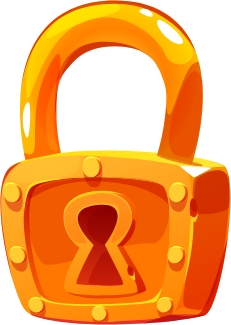
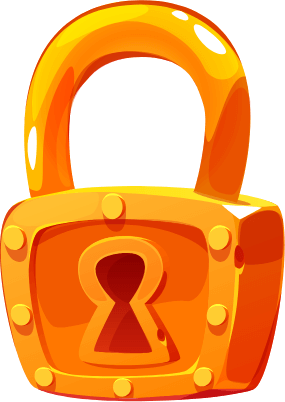
sdf

diff --git a/src/components/card/stage-game-card/StageGameSeasonCard.js b/src/components/card/stage-game-card/StageGameSeasonCard.js
@@ -17,6 +17,8 @@ import { IS_TABLET_CONDITION } from '../../../utils/constants/constants';
 import { tabScreenSoundInOnClick } from '../../../utils/sound/SoundFunctions';
 import useAppTheme from '../../../hooks/theme/useAppTheme';
 import SimpleBorderText from '../../text-components/SimpleBorderText';
+import LocalImageComponent from '../../image-components/LocalImageComponent';
+import WoodProgressBar from '../../WoodProgressBar';
 
 const { width, height } = Dimensions.get('window');
 
@@ -29,16 +31,19 @@ const STAGE_GAME_CARD_WIDTH = IS_TABLET_CONDITION
 
 function StageGameSeasonCard({
   lock,
+  ended,
   currentScroll,
   title,
   description,
   image,
+  progress,
   seasonNumber,
   stageNumberFrom,
   stageNumberTo,
   numberStage,
   isActive,
   onPress,
+  languageName
 }) {
   const colors = useAppTheme();
 
@@ -66,14 +71,17 @@ function StageGameSeasonCard({
           <View style={{ flex: 1, position: 'relative' }}>
             <CardContent
               lock={lock}
+              ended={ended}
               title={title}
               image={image}
+              progress={progress}
               seasonNumber={seasonNumber}
               stageNumberFrom={stageNumberFrom}
               stageNumberTo={stageNumberTo}
               numberStage={numberStage}
               colors={colors}
               onClick={onClick}
+              languageName={languageName}
             />
           </View>
 
@@ -82,11 +90,9 @@ function StageGameSeasonCard({
               width: '100%',
               height: '100%',
               alignItems: 'center',
-              justifyContent: 'center',
-              backgroundColor: '#83703d70',
+              justifyContent: 'flex-start',
+              paddingTop:"15%",
               position: 'absolute',
-              top: 0,
-              left: 0,
             }}>
               <LockedSeasonAnimation animate={currentScroll} lockFontSize={STAGE_GAME_CARD_WIDTH / 2} />
             </View>
@@ -112,8 +118,10 @@ function StageGameSeasonCard({
 }
 
 const CardContent = memo(({
-  lock, title, image, seasonNumber, stageNumberFrom, stageNumberTo, numberStage, colors, onClick
+  lock, ended, title, image, progress, seasonNumber, stageNumberFrom, stageNumberTo, numberStage, colors, onClick, languageName
 }) => {
+  const seasonNumberLength = seasonNumber?.toString().length
+  const cupNumberFontSize = seasonNumberLength == 1?14:seasonNumberLength == 2?11:8
   return (
     <View style={{
       width: STAGE_GAME_CARD_WIDTH,
@@ -129,39 +137,72 @@ const CardContent = memo(({
           resizeMode={'cover'}
           style={{borderTopLeftRadius:STAGE_GAME_CARD_WIDTH*0.16, borderTopRightRadius:STAGE_GAME_CARD_WIDTH*0.16, borderBottomLeftRadius:25, borderBottomRightRadius:25}}
         />
-        <View style={{ width: '100%', alignItems: 'center', paddingTop: 10, paddingHorizontal: 10 }}>
-          <View style={{
-            flexDirection: 'row',
-            justifyContent: 'space-between',
-            alignItems: 'center',
-            width: '100%',
-            backgroundColor: `${colors.primary.a1}45`,
-            paddingVertical: 15,
-            paddingHorizontal: 10,
-            borderRadius: 10,
-            marginHorizontal: 10,
-          }}>
-            <Text style={{ color: colors.text.a1, fontFamily: Font.medium, fontSize: 15 }}>{`فصل ${seasonNumber}`}</Text>
-            {lock == true ? (
-              <Icon name={'download-cloud'} type={'Feather'} style={{ fontSize: 20, color: colors.text.a1 }} />
-            ) : (
-              <Text style={{ color: colors.text.a1, fontFamily: Font.medium, fontSize: 15 }}>{`${numberStage} مرحله ( ${stageNumberFrom} تا ${stageNumberTo} )`}</Text>
-            )}
-          </View>
-        </View>
       </View>
-
-      
-
+      <View style={{ width: '100%', alignItems: 'center' }}>
+        <ImageBackground
+            source={require("../../../assets/image/frame_stage_info.png")}
+            style={{ width: STAGE_GAME_CARD_WIDTH*0.8, height: STAGE_GAME_CARD_WIDTH*0.31, alignItems:'center', justifyContent:'center'}}
+            imageStyle={{ resizeMode: "stretch" }}
+            resizeMode="stretch"
+        >
+          {
+            lock == true?
+            <View style={{flexDirection: 'column', justifyContent: 'center', alignItems: 'center', width: '100%', height: '100%', gap:10, paddingBottom:10}}>
+              <Text style={{ color: colors.text.a1, fontFamily: Font.iran_yekan_black_fa, fontSize: 20 }}>{`فصل ${seasonNumber}`}</Text>
+              <Icon name={'download-cloud'} type={'Feather'} style={{ fontSize: 25, color:"#fcb900" }} />
+            </View>
+            :
+            <View style={{flexDirection: 'row', justifyContent: 'space-between', alignItems: 'center', width: '100%', height: '100%', paddingHorizontal:15, paddingBottom:10}}>
+                <View style={{flexDirection: 'column', justifyContent: 'flex-start', alignItems: 'flex-start', gap:3}}>
+                  <Text style={{ color: colors.text.a1, fontFamily: Font.black, fontSize: 16 }}>{`فصل ${seasonNumber}`}</Text>
+                  <Text style={{ color: colors.text.a3, fontFamily: Font.medium, fontSize: 11 }}>{`مرحله ${stageNumberFrom} تا ${stageNumberTo} (${numberStage} مرحله)`}</Text>
+                  <Text style={{ color: colors.text.a3, fontFamily: Font.medium, fontSize: 11 }}>{`زبان ${languageName}`}</Text>
+                </View>
+                {
+                  ended == true&&
+                  <ImageBackground
+                      source={require("../../../assets/image/cup.png")}
+                      style={{ width: STAGE_GAME_CARD_WIDTH*0.15, height: STAGE_GAME_CARD_WIDTH*0.15, alignItems:'center', justifyContent:'center', paddingBottom:20}}
+                      imageStyle={{ resizeMode: "stretch", opacity:0.9 }}
+                      resizeMode="stretch"
+                  >
+                    <Text style={{ color: "#86442d", fontFamily: Font.iran_yekan_black_fa, fontSize:cupNumberFontSize }}>{seasonNumber}</Text>
+                  </ImageBackground>
+                }
+            </View>
+            
+          }
+          
+        </ImageBackground>
+      </View>
+      <View style={{alignItems:'center', width:'100%'}}>
+        <WoodProgressBar
+          progressWidth={STAGE_GAME_CARD_WIDTH*0.8}
+          progress={ended == true?numberStage:progress??0}
+          maxValue={numberStage}
+          showValue={lock == true?false:true}
+        />
+      </View>
       <View style={{ width: '100%', alignItems: 'center', paddingBottom:30 }}>
         <TouchableOpacity onPress={onClick} activeOpacity={1} style={{ alignSelf:'center', shadowColor:'#000', elevation:5}}>
           <ImageBackground
               source={require("../../../assets/image/frame_stage_button.png")}
-              style={{ width: STAGE_GAME_CARD_WIDTH * 0.65, height: STAGE_GAME_CARD_WIDTH * 0.247, alignItems:'center', justifyContent:'center', paddingBottom:10}}
+              style={{ width: STAGE_GAME_CARD_WIDTH * 0.65, height: STAGE_GAME_CARD_WIDTH * 0.247, alignItems:'center', justifyContent:'center', paddingBottom:5}}
               imageStyle={{ resizeMode: "stretch" }}
               resizeMode="stretch"
           >
-            <Text style={{fontFamily:Font.iran_yekan_black_fa, fontSize:25, color:"#fcb900"}}>{'شروع بازی'}</Text>
+            {
+              lock==true?
+              <LocalImageComponent
+                path={require('../../../assets/image/lock_yellow.png')}
+                width={28}
+                height={35}
+                resizeMode={'stretch'}
+                blank_background={true}
+              />
+              :
+              <Text style={{fontFamily:Font.iran_yekan_black_fa, fontSize:25, color:"#fcb900"}}>{'شروع بازی'}</Text>
+            }
           </ImageBackground>
         </TouchableOpacity>
       </View>
@@ -172,12 +213,15 @@ const CardContent = memo(({
   // فقط وقتی دادههای متن یا تصویر یا لاک عوض شد، rerender کن
   return (
     p.lock === n.lock &&
+    p.ended === n.ended &&
     p.title === n.title &&
     p.image === n.image &&
+    p.progress === n.progress &&
     p.seasonNumber === n.seasonNumber &&
     p.stageNumberFrom === n.stageNumberFrom &&
     p.stageNumberTo === n.stageNumberTo &&
-    p.numberStage === n.numberStage
+    p.numberStage === n.numberStage &&
+    p.languageName === n.languageName
   );
 });
 

diff --git a/src/components/WoodProgressBar.js b/src/components/WoodProgressBar.js
@@ -1,0 +1,59 @@
+import React from 'react';
+import {StyleSheet, View, Text, Dimensions} from 'react-native';
+import {
+  ImageBackground,
+} from 'react-native';
+import useAppTheme from '../hooks/theme/useAppTheme';
+import LocalImageComponent from './image-components/LocalImageComponent';
+import LinearGradient from 'react-native-linear-gradient';
+import Font from '../utils/Font';
+
+
+function WoodProgressBar({progressWidth, progress, maxValue, showValue=true}){
+    const colors = useAppTheme();
+
+    const progressPercent = progress*100/maxValue
+
+    return(
+        <ImageBackground
+            source={require("../assets/image/wood_progress_bar.png")}
+            style={{ width: progressWidth, height: progressWidth/8.55, alignItems:'center', justifyContent:'center'}}
+            imageStyle={{ resizeMode: "stretch" }}
+            resizeMode="stretch"
+        >
+            <View style={{alignItems:'flex-end', width:'100%', height:'100%', justifyContent:"center", paddingHorizontal:"2.3%", paddingBottom:"1%"}}>
+
+                {
+                    progressPercent>0?
+                    <LinearGradient colors={["#03a9f4", "#1a237e"]} style={{overflow:'visible', width:`${progressPercent}%`, height:"56%", borderRadius:20}}>
+                        <View style={{overflow:'visible', height:"100%", width:"100%", alignItems:'flex-start', justifyContent:'center' }}>
+                            <View style={{left:progressPercent < 10?-progressWidth/12:progressPercent < 20?-progressWidth/20:0  }}>
+                                <LocalImageComponent
+                                    path={require('../assets/image/progres_thumb_blue.png')}
+                                    width={progressWidth/8.55}
+                                    height={progressWidth/8.55}
+                                    resizeMode={'stretch'}
+                                    blank_background={true}
+                                />
+                            </View>
+                        </View>
+                    </LinearGradient>
+                    :
+                    <LocalImageComponent
+                        path={require('../assets/image/progres_thumb_red.png')}
+                        width={progressWidth/8.55}
+                        height={progressWidth/8.55}
+                        resizeMode={'stretch'}
+                        blank_background={true}
+                    />
+                }
+            </View>
+            {showValue&&
+                <View style={{width:"100%", height:"100%", alignItems:progressPercent < 70?"flex-start":"flex-end", justifyContent:'center', paddingHorizontal:30, position:'absolute', paddingBottom:"1%"}}>
+                    <Text style={{fontFamily:Font.medium, color:colors.text.a1, fontSize:12}}>{`${maxValue} / ${progress}`}</Text>
+                </View>
+            }
+        </ImageBackground>
+    )
+}
+export default WoodProgressBar;

diff --git a/src/screens/main/stage-game/StageGame.js b/src/screens/main/stage-game/StageGame.js
@@ -49,7 +49,7 @@ function StageGame(props){
     const flatListRef = useRef(null);
     const [activeIndexes, setActiveIndexes] = useState([]);
     const { stageGameLanguage, stageGameLanguageName, forceUpdate, versionCreatedContent, versionUpdatedContent, versionDeletedContent } = useSelector((state) => state.stageGamePersist);
-    const { lastSeasonNumber } = useSelector((state) => state.stageGame);
+    const { lastSeasonNumber, lastStageNumber } = useSelector((state) => state.stageGame);
     const [loading, setLoading] = useState(true)
     const data = useStageSeasonsByLanguage(stageGameLanguage)
 
@@ -206,7 +206,9 @@ function StageGame(props){
     const renderItem = ({item, index})=>{
         return(
             <StageGameSeasonCard
+                ended={item.season_number < lastSeasonNumber?true:false}
                 lock={item.season_number > lastSeasonNumber?true:false}
+                progress={item.season_number == lastSeasonNumber?lastStageNumber - item.stage_number_from:null }
                 currentScroll={activeIndexes.includes(index)}
                 title={item.title}
                 description={item.description}
@@ -220,10 +222,11 @@ function StageGame(props){
                     if(item.season_number > lastSeasonNumber)return
                     props.navigation.navigate("StagesStageGameSeason", {season:item._id.toString(), seasonName:item.title.toString()})
                 }}
+                languageName={stageGameLanguageName}
             />
         )
     }
-    const memoizedValue = useMemo(() => renderItem, [data, activeIndexes, lastSeasonNumber]);
+    const memoizedValue = useMemo(() => renderItem, [data, activeIndexes, lastSeasonNumber, lastStageNumber]);
     const keyExtractor = (item,index)=>index.toString()
     
 
@@ -305,11 +308,8 @@ function StageGame(props){
                     viewabilityConfig={viewabilityConfig}
                     onViewableItemsChanged={onViewableItemsChanged}
                     ListEmptyComponent={ListEmptyComponent}
-                    extraData={{ activeIndexes, lastSeasonNumber }}
+                    extraData={{ activeIndexes, lastSeasonNumber, lastStageNumber }}
                     onScrollToIndexFailed={(info) => {
-                        console.warn("scrollToIndex failed", info);
-
-                        // تلاش دوباره با نزدیکترین ایندکس معتبر
                         flatListRef.current?.scrollToIndex({
                             index: Math.max(0, data.length - 1),
                             animated: false,

diff --git a/src/components/LockedSeasonAnimation.js b/src/components/LockedSeasonAnimation.js
@@ -9,7 +9,7 @@ import Animated,
   withTiming,
   cancelAnimation,
 } from "react-native-reanimated";
-import Icon from "../utils/Icon";
+import LocalImageComponent from "./image-components/LocalImageComponent";
 
 function LockedSeasonAnimation({ animate, lockFontSize = 80 }) {
   const size = useSharedValue(25);
@@ -76,17 +76,13 @@ function LockedSeasonAnimation({ animate, lockFontSize = 80 }) {
       }}
     >
       <Animated.View style={animatedStyle}>
-        <Icon
-            name={"locked"}
-            type={"Fontisto"}
-            style={{
-                fontSize: lockFontSize,
-                color: "#fcb900",
-                textShadowColor: "#00000090",           // رنگ سایه
-                textShadowOffset: { width: 1, height: 1 }, // جهت سایه
-                textShadowRadius: 10,               // میزان پخش
-            }}
-        />
+        <LocalImageComponent
+            path={require('../assets/image/lock_gold.png')}
+            width={170}
+            height={240}
+            resizeMode={'stretch'}
+            blank_background={true}
+          />
       </Animated.View>
     </View>
   );

diff --git a/src/components/inputs/InputText.js b/src/components/inputs/InputText.js
@@ -2,7 +2,6 @@ import React, {memo, useState, useEffect} from 'react';
 import {View, Text, TouchableOpacity, TextInput, ActivityIndicator} from 'react-native';
 import Font from '../../utils/Font';
 import { DotIndicator, UIActivityIndicator } from 'react-native-indicators';
-import LinearGradient from 'react-native-linear-gradient';
 import Icon from '../../utils/Icon';
 import useAppTheme from '../../hooks/theme/useAppTheme';
 
